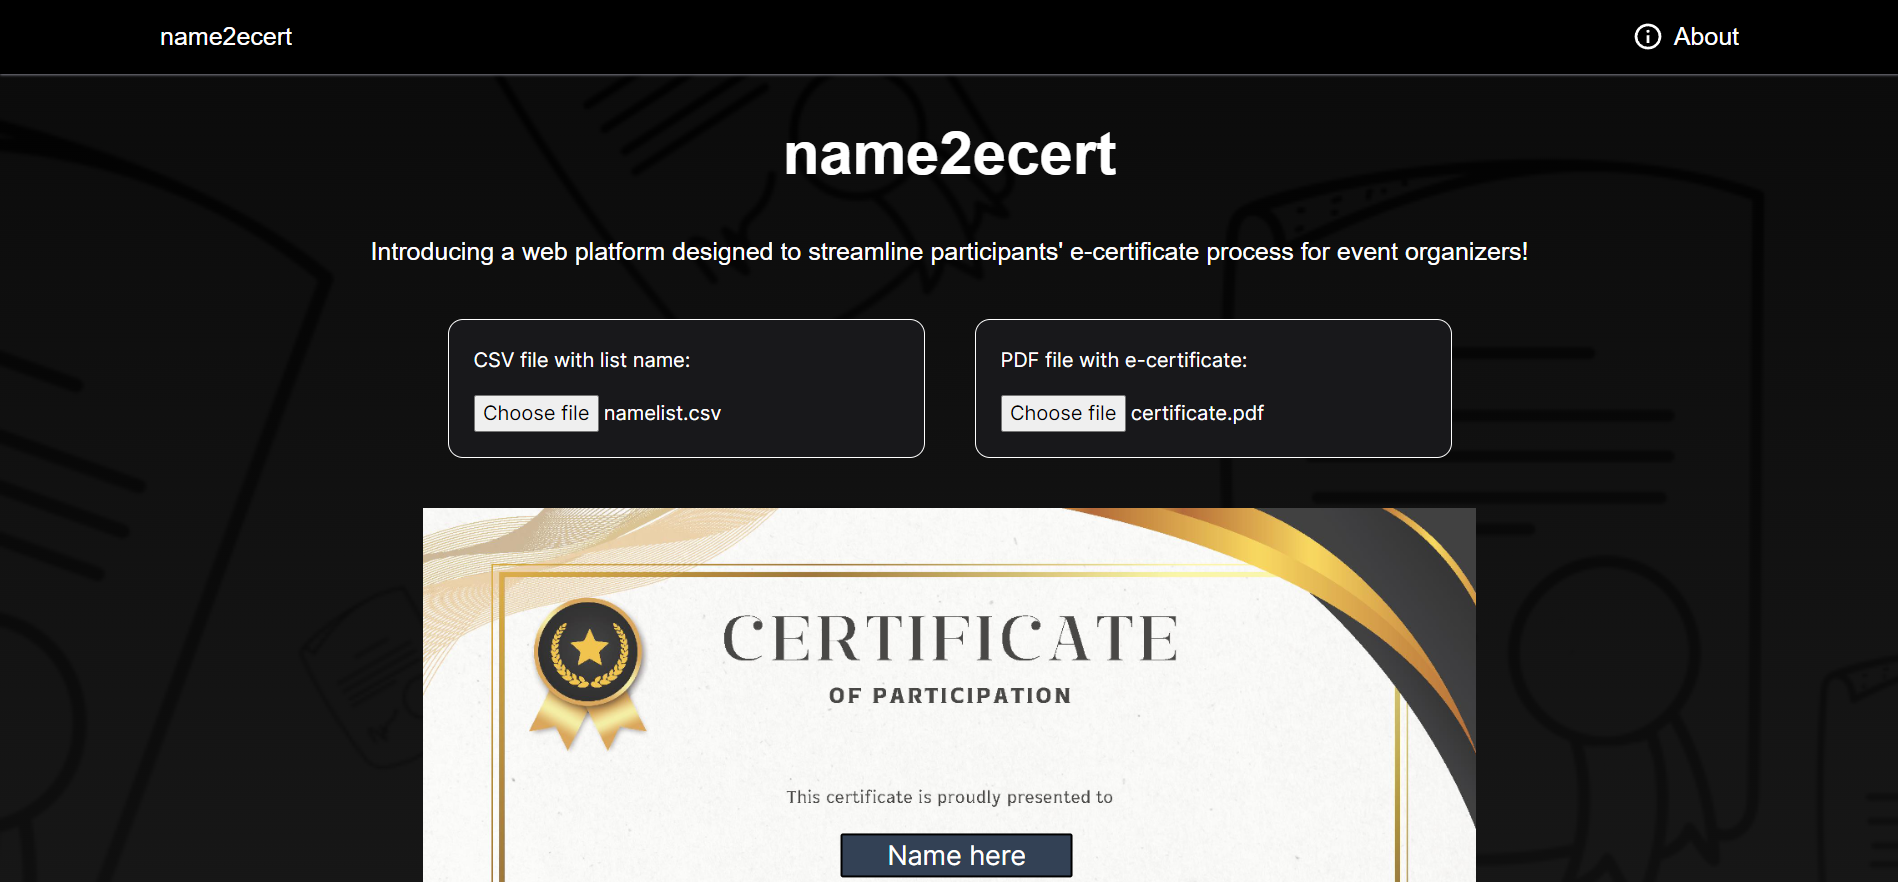
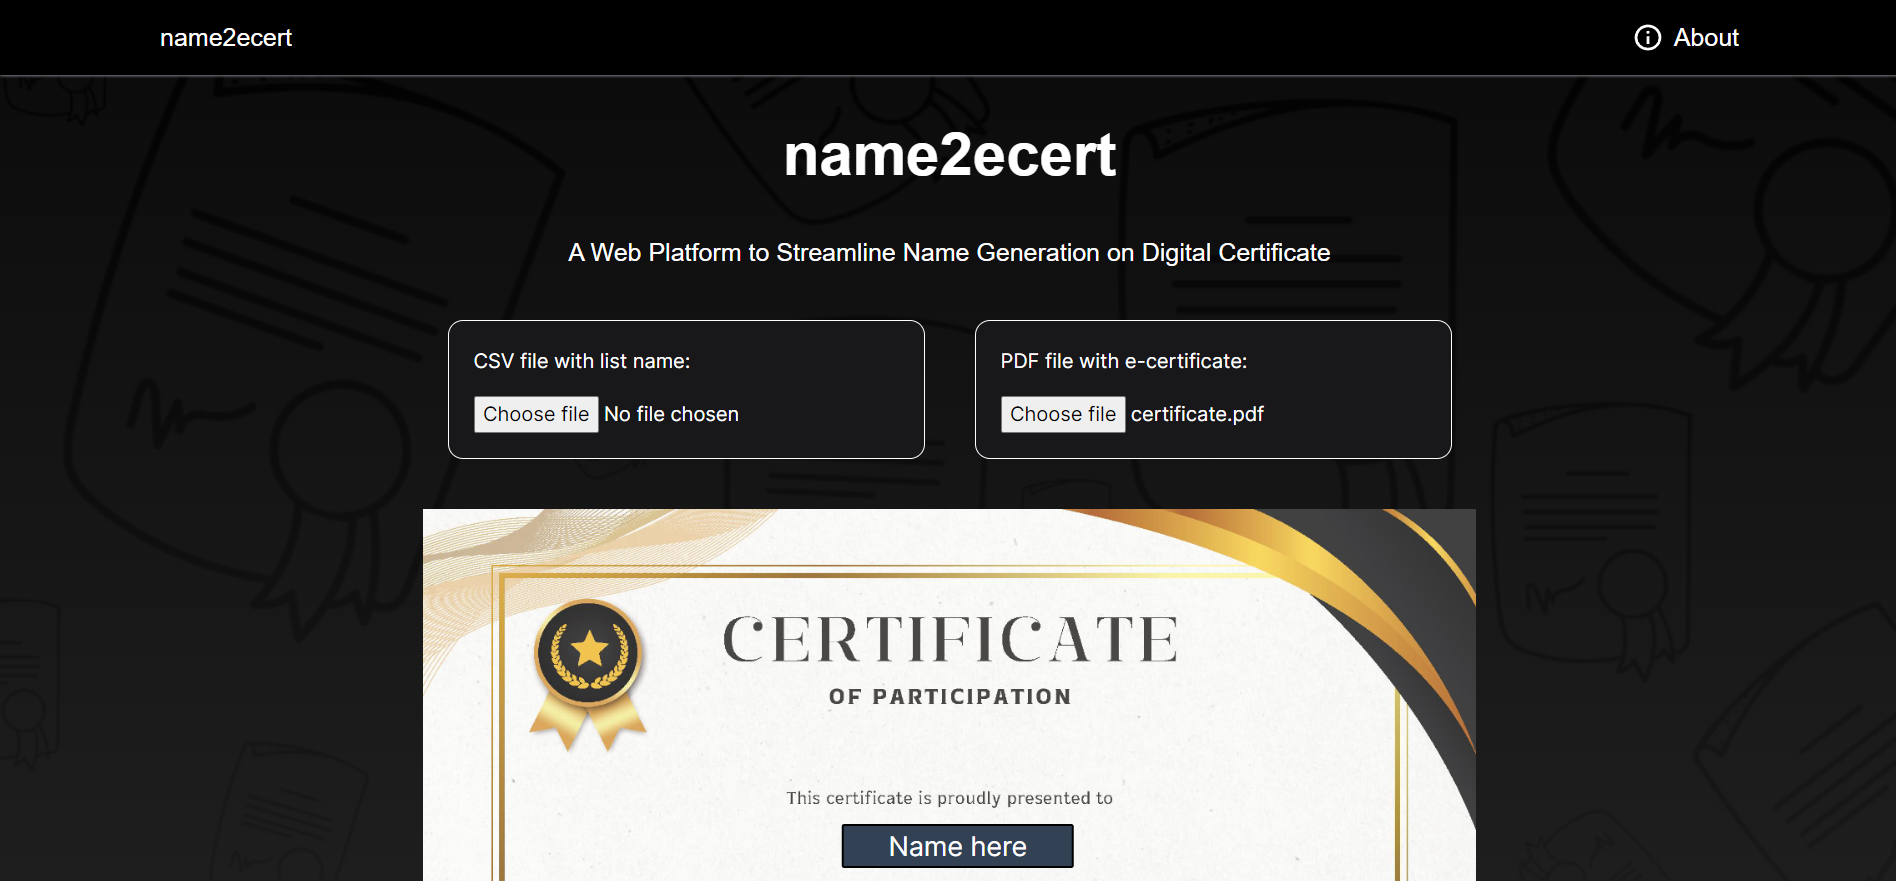
add about page

diff --git a/app/about/page.tsx b/app/about/page.tsx
@@ -1,0 +1,58 @@
+import Image from "next/image";
+
+const About = () => {
+    return (
+        <div className="flex justify-center items-center flex-col gap-5 pb-10">
+            <div className="flex justify-center font-inter flex-col text-center p-10 pb-0 gap-5">
+                <h3 className="text-xl">
+                    Generate Name On Certificate Made Easy
+                </h3>
+                <p className="text-md">
+                    Save your time taken in generating multiple digital certificates with different names!
+                </p>
+            </div>
+            <div className="w-full flex justify-center">
+                <div className="w-full grid grid-rows-1 sm:grid-cols-4 gap-1">
+                    <div className="flex justify-center items-center flex-col gap-5 pb-5 px-2 lg:px-10">
+                        <Image src="/upload.svg" alt="upload" width={200} height={200} className="w-2/5" />
+                        <p className="text-md text-center">
+                            Upload the name list in one column with a header labeled "name".
+                            Upload the the e-certificate you have created.
+                        </p>
+                    </div>
+                    <div className="flex justify-center items-center flex-col gap-5 pb-5 px-2 lg:px-10">
+                        <Image src="/select.svg" alt="select" width={200} height={200} className="w-2/5" />
+                        <p className="text-md text-center">
+                            Move and place the name anchor to your preferred location on the certificate.
+                        </p>
+                    </div>
+                    <div className="flex justify-center items-center flex-col gap-5 pb-5 px-2 lg:px-10">
+                        <Image src="/custom.svg" alt="custom" width={200} height={200} className="w-2/5" />
+                        <p className="text-md text-center">
+                            Customize the font size, font type, and font color according to your preferences.
+                        </p>
+                    </div>
+                    <div className="flex justify-center items-center flex-col gap-5 pb-5 px-2 lg:px-10">
+                        <Image src="/download.svg" alt="download" width={200} height={200} className="w-2/5" />
+                        <p className="text-md text-center">
+                        Preview the changes and download the files as ZIP. Unzip the file to view all generated certificates. 
+                        </p>
+                    </div>
+                </div>
+            </div>
+            <div className="flex justify-center flex-col gap-5 py-4 px-10 bg-zinc-900 w-4/5 sm:w-1/2 rounded-xl border">
+                <span className="font-bold">Important Notes:</span>
+                <div>
+                <ul className="list-disc">
+                    <li>Name list must be in CSV file format.</li>
+                    <li>Header labeled "name" should be spelled in lowercase.</li>
+                    <li>E-certificate must be in PDF file format.</li>
+                    <li>For optimal usage, recommend a 16:9 screen and format the PDF document to A4 size, whether in landscape or portrait orientation.</li>
+                </ul>
+                </div>
+            </div>
+        </div>
+    )
+};
+
+export default About;

diff --git a/components/PdfViewer.tsx b/components/PdfViewer.tsx
@@ -163,7 +163,7 @@ const PdfViewer = ({ pdfFile, pdfFileUrl, pdfFileBytes, participantList }: Props
         return lines;
     };
 
-    // To count the
+    // To count the y offset for each specified dimensions
     const getYOffset = () => {
         let yValue;
         if (imageOrientation === "landscape" && imageDimensions.height >= 595) {
@@ -250,29 +250,25 @@ const PdfViewer = ({ pdfFile, pdfFileUrl, pdfFileBytes, participantList }: Props
 
     const generateCertificatePreview = async () => {
         const previewNames: string[] = ["Participant's Name", "Participant's Name That Is Long Should Be Printed In This Format And Outline"];
+        const pdfPreviewFile: Uint8Array[] = [];
         for ( let i = 0; i < previewNames.length; i++) {
             const pdfBytes = await updatePdf(previewNames[i]);
-            var blob = new Blob([pdfBytes], { type: "application/pdf" });
-            var link = document.createElement("a");
-            link.href = window.URL.createObjectURL(blob);
-            link.download = `preview-${i + 1}-certificate.pdf`;
-            link.click();
+            pdfPreviewFile.push(pdfBytes);
         }
-    };
-
-    const generateCertificatesInPdf = () => {
-        if (participantList.length <= 0) {
-            alert("Please upload a CSV file.")
-            return;
-        };
-        participantList.map(async (participant) => {
-            const pdfBytes = await updatePdf(participant.name);
-            var blob = new Blob([pdfBytes], { type: "application/pdf" });
-            var link = document.createElement("a");
-            link.href = window.URL.createObjectURL(blob);
-            link.download = `${participant.name}-certificate.pdf`;
-            link.click();
-        })
+        const mergedPdf = await PDFDocument.create();
+        for ( let i = 0; i < pdfPreviewFile.length; i++) {
+            const pdfToBeCopied = await PDFDocument.load(pdfPreviewFile[i]);
+            const copiedPages = await mergedPdf.copyPages(pdfToBeCopied, pdfToBeCopied.getPageIndices());
+            copiedPages.forEach((page) => {
+                mergedPdf.addPage(page)
+            });
+        }
+        const mergedPdfFileBytes = await mergedPdf.save();
+        var blob = new Blob([mergedPdfFileBytes], { type: "application/pdf" });
+        var link = document.createElement("a");
+        link.href = window.URL.createObjectURL(blob);
+        link.download = `name2ecert-preview.pdf`;
+        link.click();
     };
 
     const generateCertificatesInZip = async () => {
@@ -324,7 +320,7 @@ const PdfViewer = ({ pdfFile, pdfFileUrl, pdfFileBytes, participantList }: Props
     };
 
     return (
-        <div className="w-full flex flex-col justify-center items-center gap-5">
+        <div className="w-full flex flex-col justify-center items-center gap-5 mb-5">
             {
                 imageUrl ? (
                     <div className="w-fit h-fit flex justify-center relative">

diff --git a/app/page.tsx b/app/page.tsx
@@ -1,21 +1,15 @@
 import FileUpload from "../components/FileUpload";
-import Nav from "../components/Nav";
 
 const Home = () => {
     return (
         <div>
-            <Nav />
-            <div className="flex justify-center text-5xl font-satoshi font-bold p-10">
+            <div className="hidden sm:flex justify-center text-5xl font-satoshi font-bold px-10 pt-10">
                 <h1>name2ecert</h1>
             </div>
-            <article className="w-full flex justify-center font-inter flex-col gap-5 text-center px-10">
+            <article className="w-full flex justify-center font-inter flex-col text-center p-10">
                 <h3 className="text-xl">
-                    Introducing a web platform designed to streamline participants' e-certificate process for event organizers!
+                    A Web Platform to Streamline Name Generation on Digital Certificate
                 </h3>
-                {/* <p className="text-sm">
-                   Our innovative solution takes the hassle out of managing participant certificates by providing a
-                   seamless and efficient way to create e-certificates for all event attendees.
-                </p> */}
             </article>
             <FileUpload />
         </div> 

diff --git a/components/Nav.tsx b/components/Nav.tsx
@@ -5,12 +5,12 @@ const Nav = () => {
     return (
         <nav className="w-full flex justify-between bg-black py-4 px-5 md:px-32 font-inter text-xl shadow-zinc-500 shadow-sm">
             <Link href="/">
-                <p>
+                <p className="font-satoshi font-bold">
                     name2ecert
                 </p>
             </Link>
             <div className="flex flex-row gap-20">
-                <Link href="/" className="flex justify-center items-center gap-2">
+                <Link href="/about" className="flex justify-center items-center gap-2">
                     <Image 
                         src="/about.svg" 
                         alt="about" 

diff --git a/components/FileUpload.tsx b/components/FileUpload.tsx
@@ -118,7 +118,7 @@ const FileUpload = () => {
     };
 
     return (
-        <div className="w-full flex justify-center flex-col items-center gap-10 p-10 px-5">
+        <div className="w-full flex justify-center flex-col items-center gap-10 px-5">
             <div className="w-full sm:w-1/2 flex justify-center flex-col lg:flex-row gap-10">
                 <div className="w-full bg-zinc-900 border border-white rounded-xl dark:border-white">
                     <form className="flex flex-col gap-4 p-5">

diff --git a/app/layout.tsx b/app/layout.tsx
@@ -1,6 +1,7 @@
 import type { Metadata } from "next";
 import { Inter } from "next/font/google";
 import "./globals.css";
+import Nav from "../components/Nav";
 
 const inter = Inter({ subsets: ['latin'] })
 
@@ -16,7 +17,10 @@ export default function RootLayout({
 }) {
     return (
       <html lang="en">
-        <body className={inter.className}>{children}</body>
+          <body className={inter.className}>
+            <Nav/>
+            {children}
+          </body>
       </html>
     )
 }

diff --git a/README.md b/README.md
@@ -6,9 +6,9 @@ A web platform to generate name on e-certificate. The purpose of the application
 
 ## Usage
 
-This application will need 2 file inputs. The name list of participants need to be in CSV file format. The name list should only have 1 column with a header called "name". All participant name must be under the "name" column. Users should already have their designated e-certficate that need to be uploaded in PDF file format.
+This application will need 2 file inputs. The name list of participants need to be in CSV file format. The name list should only have 1 column with a header called "name". Participant name list must be under the "name" column. Digital certficate needs to be uploaded in PDF file format.
 
-Example CSV file with list name of participant as below:
+Example CSV file with the name list of participants as below:
 
 name (spelled in lowercase)  | header
 ---------------------------- | ------
@@ -17,7 +17,9 @@ participant name             | content
 participant name             | content
 the list goes on...          | content
 
-The position the name anchor can be moved to the prefered location on the certificate. The platform provides three text customization options, allowing users to adjust font size, select from several font types, and choose a font color. Additionally, users can preview the edited file before downloading all the certificates together.
+The position of the name anchor can be moved to the prefered location on the certificate. The application provides three text customization options - font size adjustment, several font types selection, and font color picker. 
+
+Additionally, the edited file can be previewed before downloading all the certificates together.
 
 ## Accuracy
 
